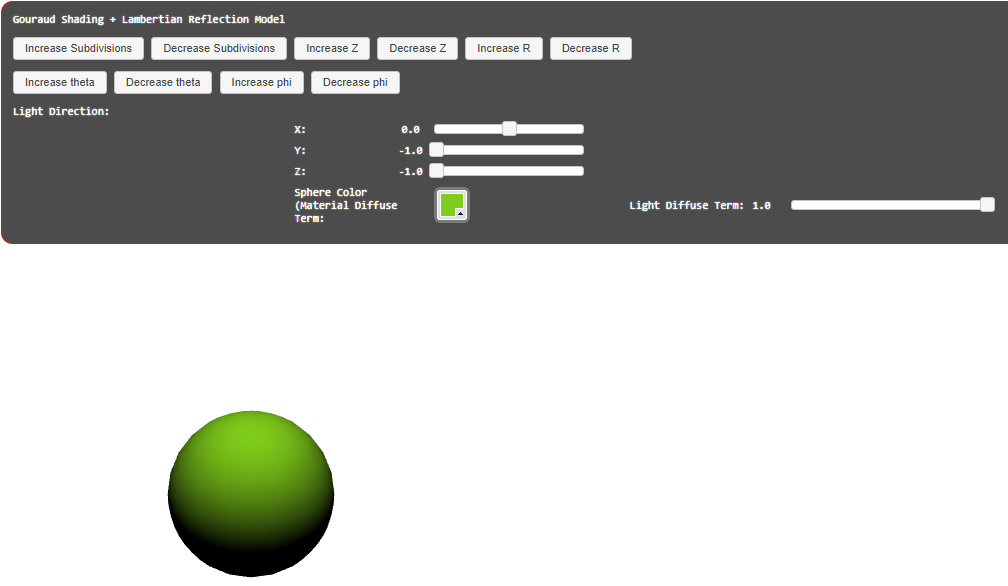
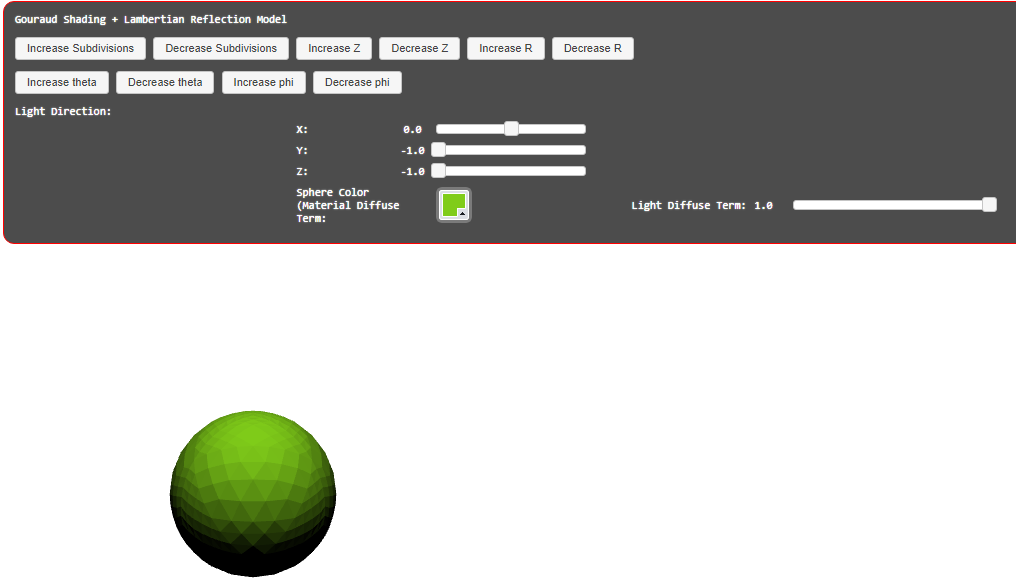
Add files via upload

diff --git a/Chapter 11/chapter11-3-gouraudshadingshininess.html b/Chapter 11/chapter11-3-gouraudshadingshininess.html
@@ -1,7 +1,7 @@
 <!DOCTYPE html>
 <html>
 <head>
-    <title> Gouraud Shading + Lambertian Reflection Model</title>
+    <title> Gouraud shading plus shininess</title>
     <style>
         #overlay {
             background-color: rgba(0, 0, 0, 0.7);
@@ -40,13 +40,19 @@
         var normalsArray = [];
         var index = 0;
         var numTimesToSubdivide = 4;
+        var sphereColor = [1.0,1.0, 0.0, 1.0];
 
-        //var lightDirection = [0.0,-1.0, -1.0];
-        var lightPosition = [0.0, -1.0, -1.0, 0.0];
+        var lightPosition = [1.0, 1.0, 1.0, 0.0];
+        var lightAmbient = [0.2, 0.2, 0.2, 1.0];
         var lightDiffuse = [1.0, 1.0, 1.0, 1.0];
-        var materialDiffuse = [0.5,0.8,0.1,1.0];
+        var lightSpecular = [1.0, 1.0, 1.0, 1.0];
 
-        var  diffuseColor;
+        var materialAmbient = [1.0, 0.0, 1.0, 1.0];
+        var materialDiffuse = [1.0, 0.8, 0.0, 1.0];
+        var materialSpecular = [1.0, 1.0, 1.0, 1.0];
+        var materialShininess = 20.0;
+
+        var ambientColor, diffuseColor, specularColor;
 
 
         const at = vec3.clone([0.0, 0.0, 0.0]);
@@ -82,9 +88,6 @@
             shaderProg.normalMatrixLoc = gl.getUniformLocation(shaderProg, "normalMatrix");
             shaderProg.vColor = gl.getAttribLocation(shaderProg, "vColorAttr");
             shaderProg.vNormal = gl.getAttribLocation(shaderProg, "vNormalAttr");
-            shaderProg.lightPosition = gl.getUniformLocation(shaderProg, "lightPosition");
-            shaderProg.materialDiffuse = gl.getUniformLocation(shaderProg, "materialDiffuse");
-            shaderProg.lightDiffuse = gl.getUniformLocation(shaderProg, "lightDiffuse");
             gl.useProgram(null);
 
         }
@@ -93,32 +96,17 @@
           vertices = vertices.concat(a);
           vertices = vertices.concat(b);
           vertices = vertices.concat(c);
-
-          let aVertice = vec3.clone(a);
-          let bVertice = vec3.clone(b);
-          let cVertice = vec3.clone(c);
-
-          let aVector = vec3.create();
-          let bVector = vec3.create();
-          let normalVector= vec3.create();
-          let normalVector4= vec4.create();
-
-          vec3.subtract(aVector, c, a);
-          vec3.subtract(bVector, b, a);
-          vec3.cross(normalVector, aVector, bVector);
-          vec3.normalize(normalVector, normalVector);
-          vec4.set(normalVector4,normalVector[0],normalVector[1], normalVector[2],0.0);
-
-          normalsArray.push(...normalVector4);
-          normalsArray.push(...normalVector4);
-          normalsArray.push(...normalVector4);
-
           index += 3;
 
-          // Replace the true vertex normals with the following
-          //normalsArray = normalsArray.concat(a);
-          //normalsArray = normalsArray.concat(b);
-          //normalsArray = normalsArray.concat(c);
+          //vertexColors = vertexColors.concat(sphereColor);
+          //vertexColors = vertexColors.concat(sphereColor);
+          //vertexColors = vertexColors.concat(sphereColor);
+
+          normalsArray = normalsArray.concat(a);
+          normalsArray = normalsArray.concat(b);
+          normalsArray = normalsArray.concat(c);
+
+
         }
 
 
@@ -194,6 +182,7 @@
             vertexBuffer.itemSize = 3;
             vertexBuffer.numberOfItems = vertices.length / 3;
 
+            //colorBuffer = gl.createBuffer();
             normalBuffer = gl.createBuffer();
 
             gl.useProgram(shaderProg);
@@ -205,6 +194,10 @@
             gl.enableVertexAttribArray(shaderProg.aPositionLoc);
             gl.vertexAttribPointer(shaderProg.aPositionLoc, 4, gl.FLOAT, false, 0, 0);
 
+            //gl.bindBuffer(gl.ARRAY_BUFFER, colorBuffer);
+            //gl.bufferData(gl.ARRAY_BUFFER, new Float32Array(vertexColors), gl.STATIC_DRAW);
+            //gl.enableVertexAttribArray(shaderProg.vColor);
+            //gl.vertexAttribPointer(shaderProg.vColor, 4, gl.FLOAT, false, 0, 0);
 
             gl.bindBuffer(gl.ARRAY_BUFFER, normalBuffer);
             gl.bufferData(gl.ARRAY_BUFFER, new Float32Array(normalsArray), gl.STATIC_DRAW);
@@ -217,9 +210,18 @@
 
         function setupLights() {
             gl.useProgram(shaderProg);
-            gl.uniform4fv(shaderProg.lightDiffuse, lightDiffuse);
-            gl.uniform4fv(shaderProg.materialDiffuse,   materialDiffuse);
-            gl.uniform4fv(shaderProg.lightPosition, lightPosition);
+            var ambientProduct = vec4.create();
+            vec4.multiply(ambientProduct, lightAmbient, materialAmbient);
+            var diffuseProduct = vec4.create();
+            vec4.multiply(diffuseProduct, lightDiffuse, materialDiffuse);
+            var specularProduct = vec4.create();
+            vec4.multiply(specularProduct, lightSpecular, materialSpecular);
+
+            gl.uniform4fv(gl.getUniformLocation(shaderProg, "ambientProduct"), new Float32Array(ambientProduct));
+            gl.uniform4fv(gl.getUniformLocation(shaderProg, "diffuseProduct"), new Float32Array(diffuseProduct));
+            gl.uniform4fv(gl.getUniformLocation(shaderProg, "specularProduct"), new Float32Array(specularProduct));
+            gl.uniform4fv(gl.getUniformLocation(shaderProg, "lightPosition"), new Float32Array(lightPosition));
+            gl.uniform1f(gl.getUniformLocation(shaderProg, "shininess"), materialShininess);
         }
 
         function draw() {
@@ -233,11 +235,16 @@
 
             let modelViewMatrix = mat4.create();
             let projectionMatrix = mat4.create();
-            let normalMatrix = mat4.create();
+            let normalMatrix = mat3.create();
 
             let eye = vec3.clone([radiuseye * Math.sin(phi), radiuseye * Math.sin(theta),
             radiuseye * Math.cos(phi)]);
 
+            //eye = [
+            //  radius * Math.sin(theta) * Math.cos(phi),
+            //  radius * Math.sin(theta) * Math.sin(phi),
+            //  radius * Math.cos(theta)
+            //];
 
             mat4.lookAt(modelViewMatrix, eye, at, up);
             mat4.ortho(projectionMatrix, left, right, bottom, ytop, near, far);
@@ -246,12 +253,15 @@
             // it's here for generality but since there is
             // no scaling in this example we could just use modelView matrix in shaders
 
-            mat4.invert(normalMatrix,modelViewMatrix);
-            //mat4.clone(normalMatrix,modelViewMatrix);
+            normalMatrix = [
+                modelViewMatrix[0], modelViewMatrix[1], modelViewMatrix[2],
+                modelViewMatrix[4], modelViewMatrix[5], modelViewMatrix[6],
+                modelViewMatrix[8], modelViewMatrix[9], modelViewMatrix[10]
+            ];
 
             gl.uniformMatrix4fv(shaderProg.modelViewMatrixLoc, false, modelViewMatrix);
             gl.uniformMatrix4fv(shaderProg.projectionMatrixLoc, false, projectionMatrix);
-            gl.uniformMatrix4fv(shaderProg.normalMatrixLoc, true, normalMatrix);
+            gl.uniformMatrix3fv(shaderProg.normalMatrixLoc, false, normalMatrix);
 
 
             gl.drawArrays(gl.TRIANGLES, 0, index);
@@ -300,64 +310,49 @@
             $("#decreasePhi-btn").button();
             $("#decreasePhi-btn").click(function () { phi -= dr; draw();});
 
-  $('#colorSelectorSphere').ColorPicker({
-      onSubmit: function(hsb, hex, rgb, el) {
-     $(el).val(hex);
-     $(el).ColorPickerHide();
+            $('#colorSelectorBg').ColorPicker({
+                onSubmit: function (hsb, hex, rgb, el) {
+                    $(el).val(hex);
+                    $(el).ColorPickerHide();
 
-   },
-   color: '#00ff00',
-      onShow: function (colpkr) {
-          $(colpkr).fadeIn(500);
-          return false;
-      },
-      onHide: function (colpkr) {
-          $(colpkr).fadeOut(500);
-          return false;
-      },
-      onChange: function (hsb, hex, rgb) {
-          $('#colorSelectorSphere div').css('backgroundColor', '#' + hex);
-          updateObjectColor(rgb.r/256,rgb.g/256,rgb.b/256);
-      },
+                },
+                color: '#00ff00',
+                onShow: function (colpkr) {
+                    $(colpkr).fadeIn(500);
+                    return false;
+                },
+                onHide: function (colpkr) {
+                    $(colpkr).fadeOut(500);
+                    return false;
+                },
+                onChange: function (hsb, hex, rgb) {
+                    $('#colorSelectorBg div').css('backgroundColor', '#' + hex);
+                    updateClearColor(rgb.r / 256, rgb.g / 256, rgb.b / 256);
+                },
 
-      onBeforeShow: function (colpkr) {
-     $(colpkr).ColorPickerSetColor('rgb(0.5,0.8,0.1)');
-    }
-   })
-
-              $('#slider-x').slider({value:0.0, min:-1.01, max:1.01, step:0.01, slide:updateLightDirection});
-              $('#slider-y').slider({value:-1.0, min:-1.01, max:1.01, step:0.01, slide:updateLightDirection});
-              $('#slider-z').slider({value:-1.0, min:-1.01, max:1.01, step:0.01, slide:updateLightDirection});
-              $('#slider-ld').slider({value:1.0, min:-0.01, max:1.01, step:0.01, slide:updateLightDiffuseTerm});
+                onBeforeShow: function (colpkr) {
+                    $(this).ColorPickerSetColor('rgb(0.5,0.8,0.1)');
+                }
+            })
 
         });
 
-        function updateObjectColor(r,g,b){
-  gl.uniform4fv(shaderProg.materialDiffuse,[r,g,b,1.0]);
-}
+        function updateClearColor(r, g, b) {
+            materialAmbient = [r, g, b, 1.0];
+            index = 0;
+            normalsArray = [];
+            vertices = [];
+            setupLights();
+            setupBuffers();
+            draw();
+        }
 
-        function updateLightDirection(){
-var x = $('#slider-x').slider("value");
-var y = $('#slider-y').slider("value");
-var z = $('#slider-z').slider("value");
-gl.uniform4fv(shaderProg.lightPosition, [x,y,z,0.0]);
-
-$('#slider-x-value').html(x);
-$('#slider-y-value').html(y);
-$('#slider-z-value').html(z);
-}
-
-function updateLightDiffuseTerm(){
- var ld = $('#slider-ld').slider("value");
- gl.uniform4fv(shaderProg.lightDiffuse,[ld,ld,ld,1.0]);
- $('#slider-ld-value').html(ld);
-}
 
     </script>
 </head>
 <body>
     <div id="overlay">
-        Gouraud Shading + Lambertian Reflection Model
+        Gouraud Shading - shaded sphere using true normals and per vertex shading
         <p />
         <button id="increaseSubdivision-btn">Increase Subdivisions</button>
         <button id="decreaseSubdivision-btn">Decrease Subdivisions</button>
@@ -371,31 +366,11 @@ function updateLightDiffuseTerm(){
         <button id="increasePhi-btn">Increase phi</button>
         <button id="decreasePhi-btn">Decrease phi</button>
         <p></p>
-        <table>
-          Light Direction:
 
-             <td>X:</td><td id='slider-x-value' width='30px' align='center'>0.0</td><td width='150px'><div id='slider-x'/></td>
-            </tr>
-            <tr>
-             <td>Y:</td> <td id='slider-y-value'  width='30px' align='center'>-1.0</td><td width='150px'><div id='slider-y'/></td>
-            </tr>
-            <tr>
-             <td>Z:</td> <td id='slider-z-value'  width='30px' align='center'>-1.0</td><td width='150px'><div id='slider-z'/></td>
-            </tr>
-          <tr>
-                    <td colspan="2"> Sphere Color (Material Diffuse Term:</td>
-                    <td>
-                         <div id='colorSelectorSphere' class='colorSelector'><div style='background-color:rgb(128,204,26)'></div></div>
-                    </td>
-
-                <td align='right'>Light Diffuse Term:</td>
-                <td id='slider-ld-value'  width='30px'>1.0</td>
-                <td width='150px' colspan='3'><div id='slider-ld'/></td>
-            </tr>
-            <tr>
-
-
- </table>
+        material Ambient:
+                <div id='colorSelectorBg' class='colorSelector'>
+                    <div style='background-color:rgb(77,77,77)'></div>
+                </div>
     </div>
     <canvas id="myGLCanvas"></canvas>
     <script id="vertex_shader" type="x-shader/x-vertex">#version 300 es
@@ -406,20 +381,19 @@ function updateLightDiffuseTerm(){
         uniform mat4 modelViewMatrix;
         uniform mat4 projectionMatrix;
 
-        uniform vec4 lightDiffuse;
-        uniform vec4 materialDiffuse;
+        uniform vec4 ambientProduct, diffuseProduct, specularProduct;
         uniform vec4 lightPosition;
-        uniform mat4 normalMatrix;
+        uniform float shininess;
+        uniform mat3 normalMatrix;
 
 
         void main(void){
           // pos is vertex position in eye coordinates
+
           vec3 pos = (modelViewMatrix * vPositionAttr).xyz;
 
-          //Transformed normal position
-          vec3 N = normalize(vec3(normalMatrix * vNormalAttr));
+          // vector from vertex position to light source
 
-          //Normalize light to calculate lambertTerm
           vec3 L;
 
           // check for directional light
@@ -427,17 +401,38 @@ function updateLightDiffuseTerm(){
           if(lightPosition.w == 0.0) L = normalize(lightPosition.xyz);
           else L = normalize( lightPosition.xyz - pos );
 
-          //Lambert's cosine law
-          float lambertTerm = dot(N,-L);
+          // Because the eye point the is at the orgin
+          // the vector from the vertex position to the eye is
 
-          //Final Color
-          vec4 Id = materialDiffuse * lightDiffuse * lambertTerm;
-          vColor = Id;
-          vColor.a = 1.0;
+          vec3 E = -normalize( pos );
 
+          // halfway vector
+
+          vec3 H = normalize( L + E );
+
+          // Transform vertex normal into eye coordinates
+
+          vec3 N = normalize( normalMatrix*vNormalAttr.xyz);
+
+
+          // Compute terms in the illumination equation
+          vec4 ambient = ambientProduct;
+
+          float Kd = max( dot(L, N), 0.0 );
+          vec4  diffuse = Kd*diffuseProduct;
+
+          float Ks = pow( max(dot(N, H), 0.0), shininess );
+          vec4  specular = Ks * specularProduct;
+
+          if( dot(L, N) < 0.0 ) {
+          specular = vec4(0.0, 0.0, 0.0, 1.0);
+          }
 
           gl_Position = projectionMatrix * modelViewMatrix * vPositionAttr;
 
+          vColor = ambient + diffuse +specular;
+
+          vColor.a = 1.0;
         }
     </script>
     <script id="fragment_shader" type="x-shader/x-fragment">#version 300 es
